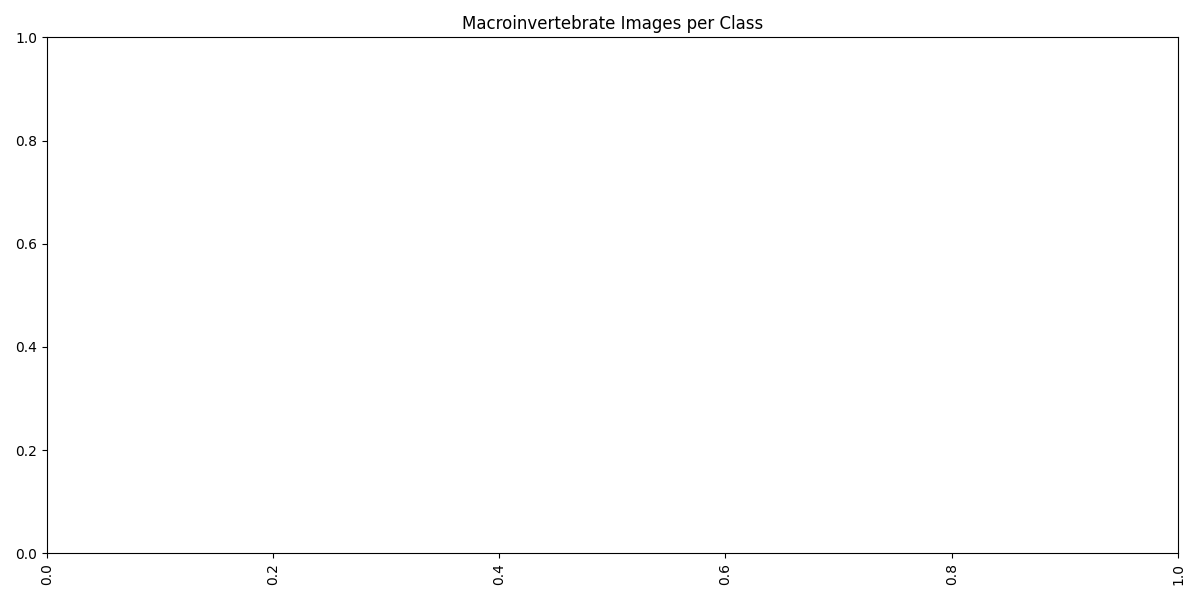
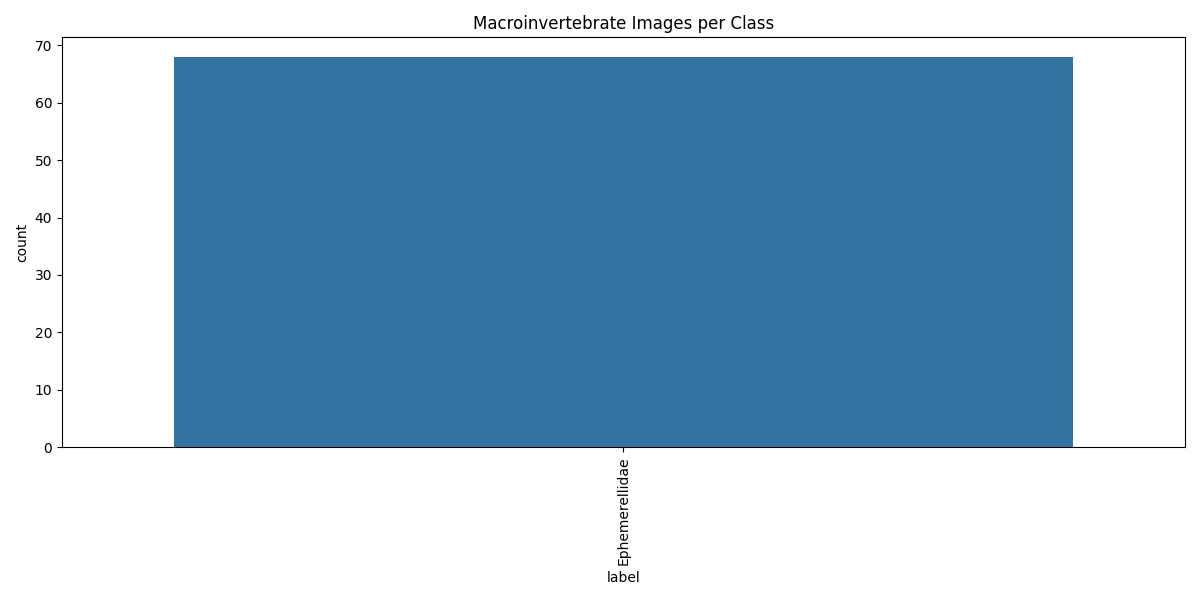
feat: paste large amount of functions provided by Pranav (with permission) related to more advanced EDA

diff --git a/macro_project/src/services/eda_service.py b/macro_project/src/services/eda_service.py
@@ -46,3 +46,354 @@ class EDAService:
             "total_classes": int(self.filterd_dataframe["label"].nunique()),
             "mean_width": float(self.filterd_dataframe["width"].mean()),
             "mean_height": float(self.filterd_dataframe["height"].mean()),}
+    
+
+    #following functions provided from Pranav by email with permision:
+    
+    def generate_width_height_scatter_plot(self) -> Path:
+        """Save a scatter plot of image width versus height."""
+        readable = self._require_readable_images()
+    
+        plt.figure(figsize=(8, 6))
+        sns.scatterplot(data=readable, x="width", y="height", hue="label", alpha=0.75)
+        plt.title("Image Width Versus Height")
+        plt.xlabel("Width in pixels")
+        plt.ylabel("Height in pixels")
+        plt.legend(title="Class", bbox_to_anchor=(1.05, 1), loc="upper left")
+        plt.tight_layout()
+    
+        output_path = self.eda_output_dir / "width_height_scatter.png"
+        plt.savefig(output_path, dpi=150)
+        plt.close()
+        return output_path
+    
+    def generate_sample_image_grid(self) -> Path:
+        """Save a grid of representative readable sample images."""
+        readable = self._require_readable_images()
+        samples = self._select_representative_samples(readable)
+    
+        columns = min(4, len(samples))
+        rows = int(np.ceil(len(samples) / columns))
+        fig, axes = plt.subplots(rows, columns, figsize=(4 * columns, 3.4 * rows))
+        axes_array = np.array(axes).reshape(-1)
+    
+        for axis in axes_array:
+            axis.axis("off")
+    
+        for axis, (_, row) in zip(axes_array, samples.iterrows()):
+            image = cv2.imread(str(row["file_path"]), cv2.IMREAD_COLOR)
+            if image is None:
+                continue
+            rgb_image = cv2.cvtColor(image, cv2.COLOR_BGR2RGB)
+            axis.imshow(rgb_image)
+            axis.set_title(str(row["label"]), fontsize=10)
+            axis.axis("off")
+    
+        fig.suptitle("Representative Sample Images by Class")
+        fig.tight_layout()
+        output_path = self.eda_output_dir / "sample_image_grid.png"
+        fig.savefig(output_path, dpi=150)
+        plt.close(fig)
+        return output_path
+    
+    def generate_width_by_class_boxplot(self) -> Path:
+        """Save a boxplot comparing image widths by class."""
+        readable = self._require_readable_images()
+    
+        plt.figure(figsize=(11, 6))
+        sns.boxplot(data=readable, x="label", y="width", color="#72B7B2")
+        plt.title("Image Width by Class")
+        plt.xlabel("Class label")
+        plt.ylabel("Width in pixels")
+        plt.xticks(rotation=35, ha="right")
+        plt.tight_layout()
+    
+        output_path = self.eda_output_dir / "width_by_class_boxplot.png"
+        plt.savefig(output_path, dpi=150)
+        plt.close()
+        return output_path
+    
+    def generate_height_by_class_boxplot(self) -> Path:
+        """Save a boxplot comparing image heights by class."""
+        readable = self._require_readable_images()
+    
+        plt.figure(figsize=(11, 6))
+        sns.boxplot(data=readable, x="label", y="height", color="#54A24B")
+        plt.title("Image Height by Class")
+        plt.xlabel("Class label")
+        plt.ylabel("Height in pixels")
+        plt.xticks(rotation=35, ha="right")
+        plt.tight_layout()
+    
+        output_path = self.eda_output_dir / "height_by_class_boxplot.png"
+        plt.savefig(output_path, dpi=150)
+        plt.close()
+        return output_path
+    
+    def generate_pixel_intensity_histogram(self) -> Path:
+        """Save a grayscale pixel intensity histogram from sampled images."""
+        readable = self._require_readable_images()
+        sample = readable.head(PIXEL_ANALYSIS_SAMPLE_SIZE)
+        intensity_values = []
+    
+        for _, row in sample.iterrows():
+            grayscale = cv2.imread(str(row["file_path"]), cv2.IMREAD_GRAYSCALE)
+            if grayscale is not None:
+                intensity_values.extend(grayscale.flatten().tolist())
+    
+        if not intensity_values:
+            raise ValueError("No readable pixels were available for intensity analysis.")
+    
+        plt.figure(figsize=(9, 6))
+        sns.histplot(intensity_values, bins=50, color="#B279A2")
+        plt.title("Sampled Grayscale Pixel Intensity Distribution")
+        plt.xlabel("Pixel intensity, 0 dark to 255 bright")
+        plt.ylabel("Frequency")
+        plt.tight_layout()
+    
+        output_path = self.eda_output_dir / "pixel_intensity_histogram.png"
+        plt.savefig(output_path, dpi=150)
+        plt.close()
+        return output_path
+    
+    def generate_image_quality_issues(self) -> Path:
+        """Save image quality flags to CSV."""
+        records = []
+        for _, row in self.dataframe.iterrows():
+            issues = []
+            if not bool(row["readable"]):
+                issues.append("unreadable_or_corrupted")
+            if bool(row["readable"]) and (
+                row["width"] < VERY_SMALL_IMAGE_THRESHOLD
+                or row["height"] < VERY_SMALL_IMAGE_THRESHOLD
+            ):
+                issues.append("very_small_image")
+            if bool(row["readable"]) and (
+                row["aspect_ratio"] < UNUSUAL_ASPECT_RATIO_LOW
+                or row["aspect_ratio"] > UNUSUAL_ASPECT_RATIO_HIGH
+            ):
+                issues.append("unusual_aspect_ratio")
+    
+            if issues:
+                records.append(
+                    {
+                        "file_path": row["file_path"],
+                        "label": row["label"],
+                        "width": row["width"],
+                        "height": row["height"],
+                        "aspect_ratio": row["aspect_ratio"],
+                        "issues": "; ".join(issues),
+                    }
+                )
+    
+        issues_dataframe = pd.DataFrame(
+            records,
+            columns=[
+                "file_path",
+                "label",
+                "width",
+                "height",
+                "aspect_ratio",
+                "issues",
+            ],
+        )
+        issues_dataframe.to_csv(QUALITY_ISSUES_PATH, index=False)
+        return QUALITY_ISSUES_PATH
+    
+    def generate_class_imbalance_report(self) -> Path:
+        """Save a written class imbalance report."""
+        class_counts = self.dataframe["label"].value_counts().sort_values(
+            ascending=False
+        )
+        largest_class = class_counts.idxmax()
+        smallest_class = class_counts.idxmin()
+        largest_count = int(class_counts.max())
+        smallest_count = int(class_counts.min())
+        ratio = largest_count / smallest_count if smallest_count > 0 else float("inf")
+    
+        explanation = (
+            "The class balance should be considered before any future Stage 2 "
+            "classification work. A high imbalance ratio can bias a model towards "
+            "the most common class and make minority macroinvertebrate classes "
+            "harder to recognise."
+        )
+    
+        report = [
+            "# Class Imbalance Report",
+            "",
+            f"- Largest class: **{largest_class}** ({largest_count} images)",
+            f"- Smallest class: **{smallest_class}** ({smallest_count} images)",
+            f"- Imbalance ratio: **{ratio:.2f}:1**",
+            "",
+            "## Interpretation",
+            "",
+            explanation,
+            "",
+            "## Stage 2 Implication",
+            "",
+            (
+                "For future modelling, consider stratified train/test splitting "
+                "and class-aware evaluation metrics. If the imbalance is large, "
+                "data collection, augmentation, or weighted evaluation may be "
+                "needed."
+            ),
+        ]
+    
+        CLASS_IMBALANCE_REPORT_PATH.write_text("\n".join(report), encoding="utf-8")
+        return CLASS_IMBALANCE_REPORT_PATH
+    
+    def generate_stage2_recommendations(self) -> Path:
+        """Save EDA-based recommendations for future Stage 2 planning."""
+        readable = self._require_readable_images()
+        class_counts = self.dataframe["label"].value_counts()
+        width_range = int(readable["width"].max() - readable["width"].min())
+        height_range = int(readable["height"].max() - readable["height"].min())
+        unreadable_count = int((~self.dataframe["readable"]).sum())
+        quality_issues = self._build_quality_issues_dataframe()
+    
+        smallest_class_count = int(class_counts.min())
+        largest_class_count = int(class_counts.max())
+        imbalance_ratio = largest_class_count / smallest_class_count
+        intensity_note = self._get_pixel_intensity_recommendation(readable)
+    
+        report = [
+            "# Stage 2 Planning Recommendations",
+            "",
+            "This project does not implement Stage 2 classification or modelling. "
+            "The recommendations below explain how the Stage 1 EDA would inform "
+            "future preprocessing and model planning.",
+            "",
+            "## Resizing",
+            "",
+            (
+                f"Readable images vary by {width_range} pixels in width and "
+                f"{height_range} pixels in height. Future Stage 2 work should "
+                "resize images to a consistent input size before modelling."
+            ),
+            "",
+            "## Normalisation and Colour Processing",
+            "",
+            intensity_note,
+            "",
+            "## Class Imbalance",
+            "",
+            (
+                f"The largest class has {largest_class_count} images and the "
+                f"smallest class has {smallest_class_count} images, giving an "
+                f"imbalance ratio of {imbalance_ratio:.2f}:1. A stratified "
+                "train/test split is recommended so every class is represented "
+                "fairly in evaluation."
+            ),
+            "",
+            "## Data Cleaning",
+            "",
+            (
+                f"The index found {unreadable_count} unreadable files and "
+                f"{len(quality_issues)} total quality issue rows. Future Stage 2 "
+                "work should review corrupted, very small, or unusual-aspect-ratio "
+                "images before training."
+            ),
+            "",
+            "## Recommended Future Stage 2 Workflow",
+            "",
+            "1. Clean or remove unreadable and severely inconsistent images.",
+            "2. Resize images to a fixed shape suitable for the chosen method.",
+            "3. Apply pixel normalisation after checking intensity distributions.",
+            "4. Use a stratified train/test split.",
+            "5. Track class-level results, not just overall accuracy.",
+        ]
+    
+        STAGE2_RECOMMENDATIONS_PATH.write_text(
+            "\n".join(report),
+            encoding="utf-8",
+        )
+        return STAGE2_RECOMMENDATIONS_PATH
+    
+    def _require_readable_images(self) -> pd.DataFrame:
+        """Return readable images or raise a useful error."""
+        if self.readable_dataframe.empty:
+            raise ValueError("No readable images were found for EDA charts.")
+    
+        return self.readable_dataframe
+    
+    def _select_representative_samples(self, readable: pd.DataFrame) -> pd.DataFrame:
+        """Select up to one image per class, then fill remaining slots."""
+        per_class = readable.groupby("label", group_keys=False).head(1)
+        if len(per_class) >= SAMPLE_GRID_MAX_IMAGES:
+            return per_class.head(SAMPLE_GRID_MAX_IMAGES)
+    
+        remaining_slots = SAMPLE_GRID_MAX_IMAGES - len(per_class)
+        remaining = readable.drop(per_class.index).head(remaining_slots)
+        return pd.concat([per_class, remaining])
+    
+    def _build_quality_issues_dataframe(self) -> pd.DataFrame:
+        """Build quality issue rows without writing them."""
+        records = []
+        for _, row in self.dataframe.iterrows():
+            issue_count = 0
+            if not bool(row["readable"]):
+                issue_count += 1
+            if bool(row["readable"]) and (
+                row["width"] < VERY_SMALL_IMAGE_THRESHOLD
+                or row["height"] < VERY_SMALL_IMAGE_THRESHOLD
+            ):
+                issue_count += 1
+            if bool(row["readable"]) and (
+                row["aspect_ratio"] < UNUSUAL_ASPECT_RATIO_LOW
+                or row["aspect_ratio"] > UNUSUAL_ASPECT_RATIO_HIGH
+            ):
+                issue_count += 1
+    
+            if issue_count > 0:
+                records.append(row.to_dict())
+    
+        return pd.DataFrame(records)
+    
+    def _get_pixel_intensity_recommendation(self, readable: pd.DataFrame) -> str:
+        """Create a short recommendation based on sampled grayscale intensity."""
+        sample = readable.head(PIXEL_ANALYSIS_SAMPLE_SIZE)
+        image_means = []
+        image_standard_deviations = []
+    
+        for _, row in sample.iterrows():
+            grayscale = cv2.imread(str(row["file_path"]), cv2.IMREAD_GRAYSCALE)
+            if grayscale is not None:
+                image_means.append(float(np.mean(grayscale)))
+                image_standard_deviations.append(float(np.std(grayscale)))
+    
+        if not image_means:
+            return (
+                "Pixel intensity analysis could not be completed because no "
+                "readable sample images were available."
+            )
+    
+        mean_intensity = float(np.mean(image_means))
+        mean_contrast = float(np.mean(image_standard_deviations))
+        return (
+            f"The sampled grayscale images have an average intensity of "
+            f"{mean_intensity:.1f} and average contrast of {mean_contrast:.1f}. "
+            "Future Stage 2 preprocessing should consider normalising pixel "
+            "values. Grayscale conversion may be useful if colour is not a "
+            "reliable feature for the macroinvertebrate classes, but this should "
+            "be compared against colour-based inputs."
+        )
+    
+    def _format_class_counts(self, class_counts: pd.Series) -> str:
+        """Format class counts into a readable summary value."""
+        return "; ".join(
+            f"{label}: {count}" for label, count in class_counts.items()
+        )
+    
+    def _safe_round(self, value: float) -> float:
+        """Round a numeric value while handling missing data."""
+        if pd.isna(value):
+            return 0.0
+    
+        return round(float(value), 2)
+    
+    def _safe_int(self, value: float) -> int:
+        """Convert a numeric value to int while handling missing data."""
+        if pd.isna(value):
+            return 0
+    
+        return int(value)
